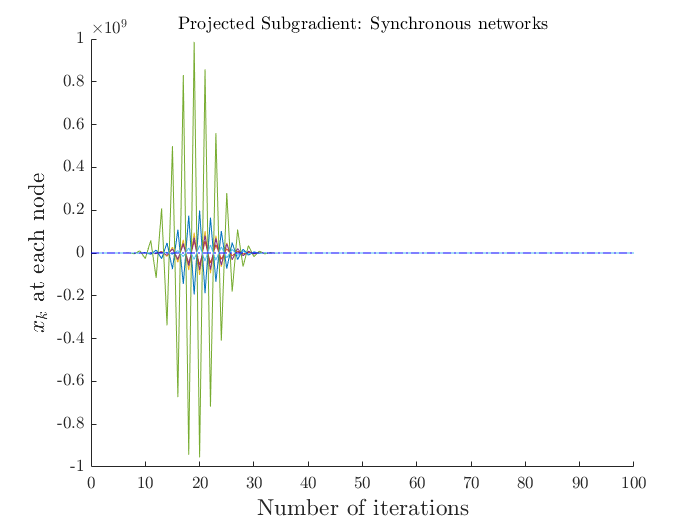
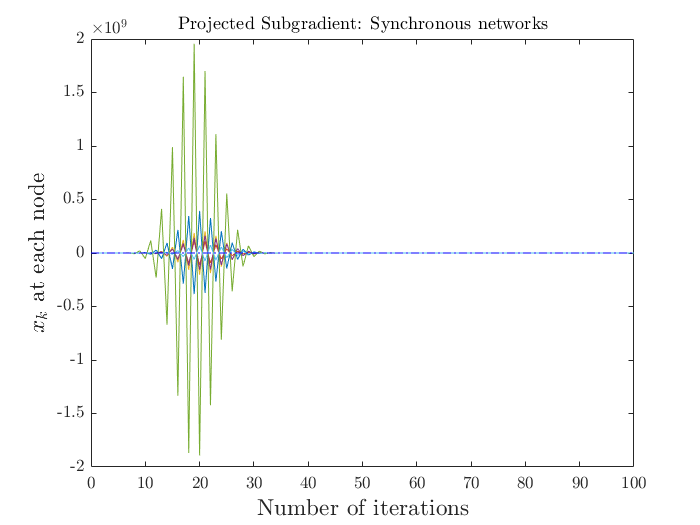
Update: Result images are updated with borders
* Initial values and demand at each node are initialized with fixed values to compare the consensus results for column_stochastic algorithms
* Respective results are also updated

diff --git a/column_stochastic_algorithms/subgrad_push.m b/column_stochastic_algorithms/subgrad_push.m
@@ -19,22 +19,22 @@ x = [4 1 5 2 3]';
 v = ones(n,1);
 z = v./x; 
 subgrad_Z = z;
-x_arxiv = x;
+
 % initialization for cost function
-alpha = [2 4 5 3 1]';
-x0 = randi([1 5],n,1);
-z0 = z;
+x0 = x; x_arxiv = x;
+alpha = [2 4 5 3 1]'; z0 = z;
 gradientEstimator = zeros(n,1);
-gradientEstimator_arxiv = zeros(n,1);
 for i=1:n
     gradientEstimator_arxiv(i)=compute_gradient(z0(i),x0(i),alpha(i));
 end
+gradientEstimator_arxiv = zeros(n,1);
 
-% consensus value
+% consensus value = optimal_x
 average_x = mean(x);
 optimal_x = sum(alpha.*x0)/sum(alpha);
+
 %% Subgradient-Push algorithm
-    itr = 200; step = 1;
+    itr = 2000; step = 1;
     for i=1:itr
         v = B*v;
         x = B*x - step*gradientEstimator_arxiv(:,end); x_arxiv = [x_arxiv x];
@@ -55,7 +55,7 @@ optimal_x = sum(alpha.*x0)/sum(alpha);
 set(0, 'DefaultTextInterpreter', 'latex')
 set(gca, 'TickLabelInterpreter', 'latex')
 
-figure(1); hold on; 
+figure(1); hold on; box on;
 plot(0:itr,subgrad_Z);
 xl=xlabel('Number of iterations','fontsize',14); set(xl, 'Interpreter', 'latex');
 yl=ylabel('Ratio $z_k$ at each node','fontsize',14); set(yl, 'Interpreter', 'latex');

diff --git a/column_stochastic_algorithms/appopt.m b/column_stochastic_algorithms/appopt.m
@@ -15,15 +15,14 @@ B = [1/3  0   0  1/2  0;
 
 % initialization
 n = length(B);
-x = [-1 -5 0 2 3]';
+x = [4 1 5 2 3]';
 v = ones(n,1);
 y = zeros(n,1); 
 z = v./x; ADDOPT_z = z;
 
 % initialization for cost function
 alpha = [2 4 5 3 1]';
-x0 = randi([1 5],n,1);
-y0 = y;
+x0 = x; y0 = y;
 gradientEstimator = zeros(n,1);
 for i=1:n
     y0(i)=compute_gradient(x0(i),x0(i),alpha(i));
@@ -52,7 +51,7 @@ optimal_x = sum(alpha.*x0)/sum(alpha);
 set(0, 'DefaultTextInterpreter', 'latex')
 set(gca, 'TickLabelInterpreter', 'latex')
 
-figure(1); hold on; 
+figure(1); hold on; box on;
 plot(0:itr,ADDOPT_z);
 xl=xlabel('Number of iterations','fontsize',14); set(xl, 'Interpreter', 'latex');
 yl=ylabel('Ratio $z_k$ at each node','fontsize',14); set(yl, 'Interpreter', 'latex');

diff --git a/column_stochastic_algorithms/pushsum.m b/column_stochastic_algorithms/pushsum.m
@@ -15,12 +15,12 @@ B = [1/3  0   0  1/2  0;
       0  1/3 1/2  0  1/3];
 % Initialization
 n = length(B);
-x = [-4 1 0 -2 3]';
+x = [4 1 5 2 3]';
 v = ones(n,1);
 z = x./v;
 pushsum_z = z;
 
-% consensus value
+% consensus value = average_x
 average_x = mean(x);
 
 %% Pushsum Consensus
@@ -37,7 +37,7 @@ average_x = mean(x);
 set(0, 'DefaultTextInterpreter', 'latex')
 set(gca, 'TickLabelInterpreter', 'latex')
 
-figure(1); hold on; 
+figure(1); hold on; box on;
 plot(0:itr,pushsum_z);
 xl=xlabel('Number of iterations','fontsize',14); set(xl, 'Interpreter', 'latex');
 yl=ylabel('Ratio $z_k$ at each node','fontsize',14); set(yl, 'Interpreter', 'latex');

diff --git a/row_stochastic_algorithms/projected_subgrad.m b/row_stochastic_algorithms/projected_subgrad.m
@@ -51,7 +51,7 @@ end
 set(0, 'DefaultTextInterpreter', 'latex')
 set(gca, 'TickLabelInterpreter', 'latex')
 
-figure(1); hold on; 
+figure(1); hold on; box on;
 plot(0:itr,x_arxiv);
 xl=xlabel('Number of iterations','fontsize',14); set(xl, 'Interpreter', 'latex');
 yl=ylabel('$x_k$ at each node','fontsize',14); set(yl, 'Interpreter', 'latex');
